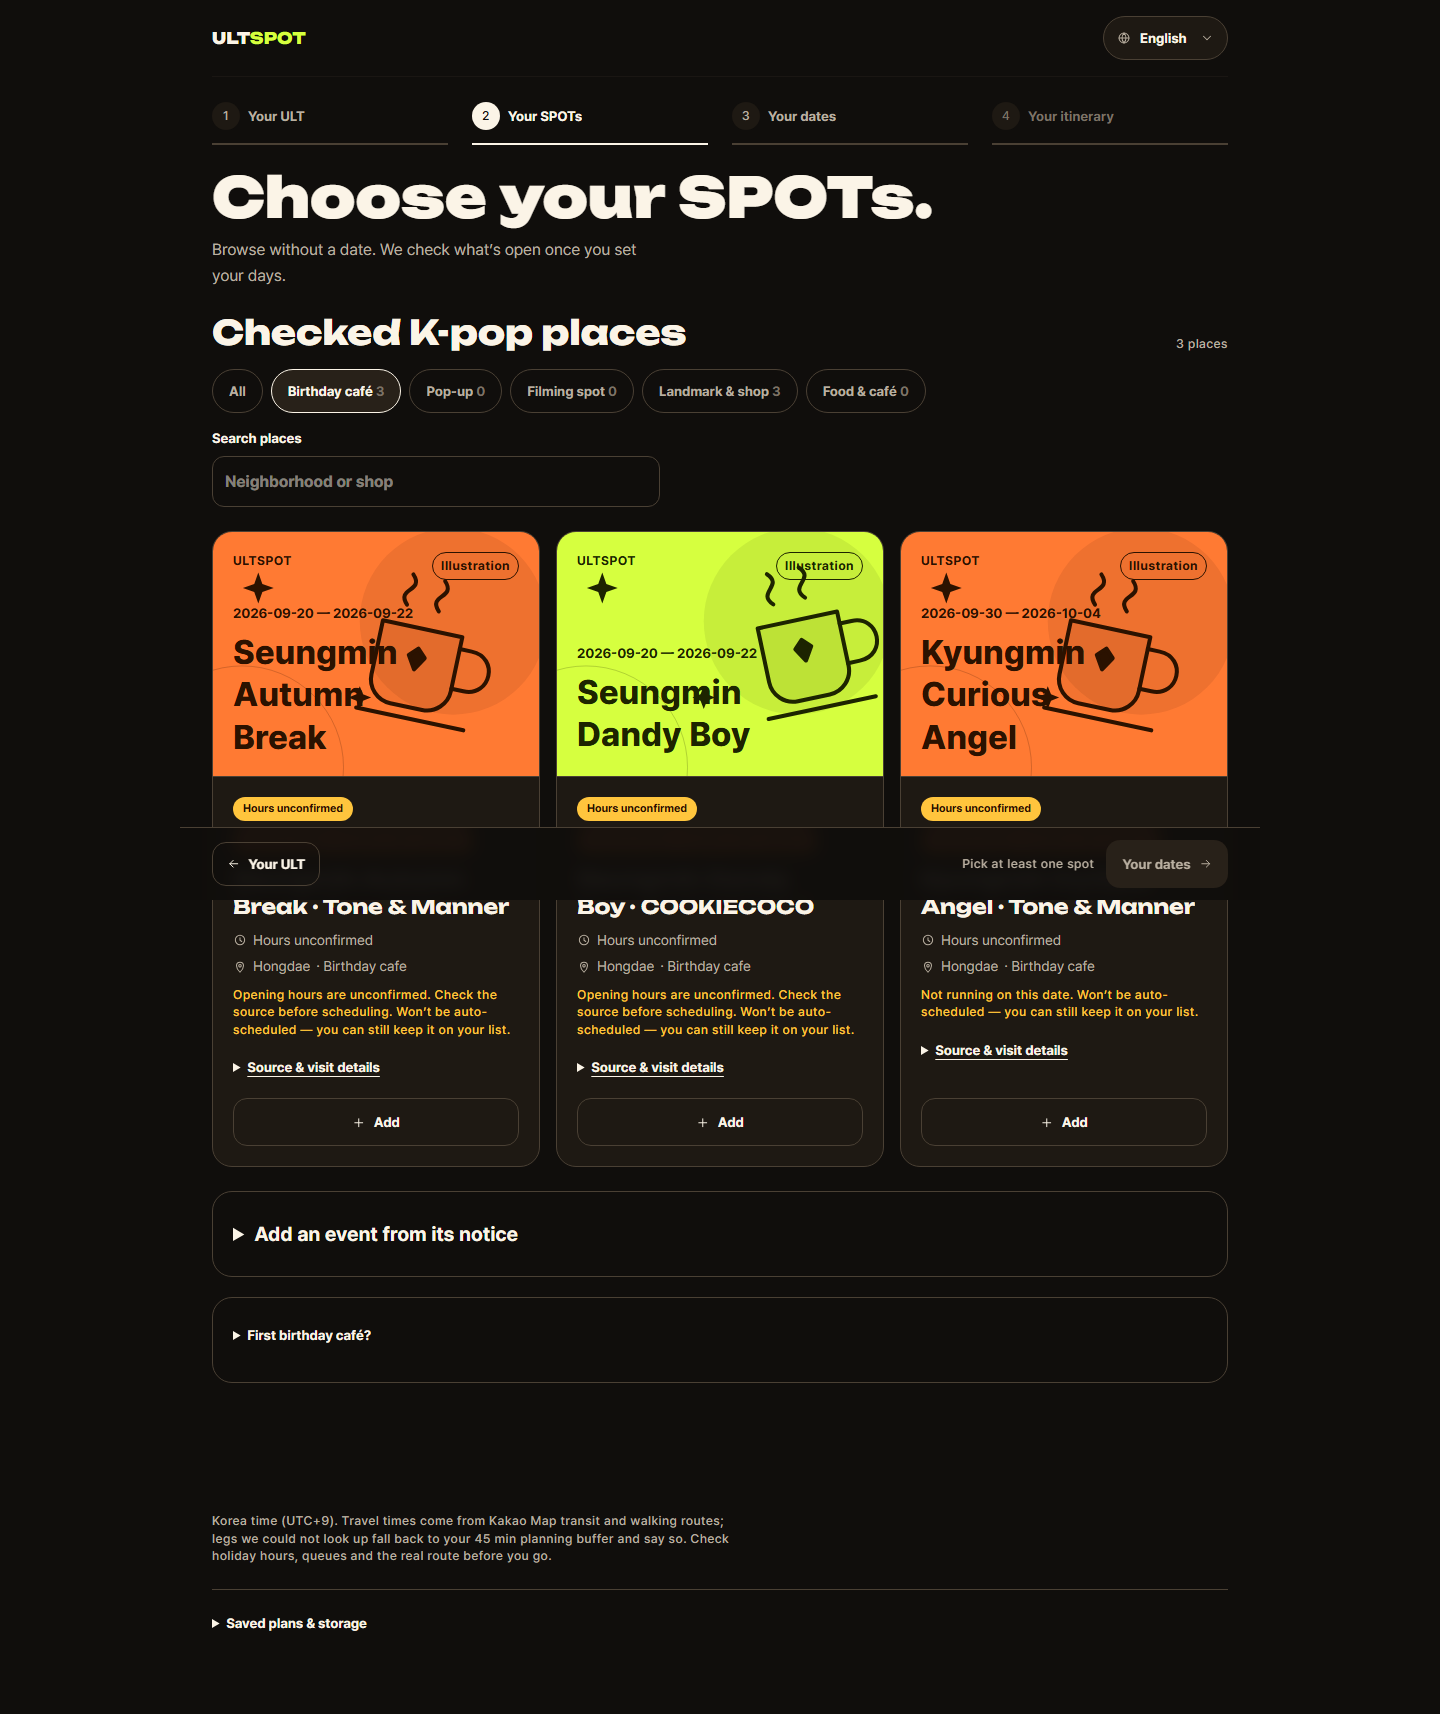
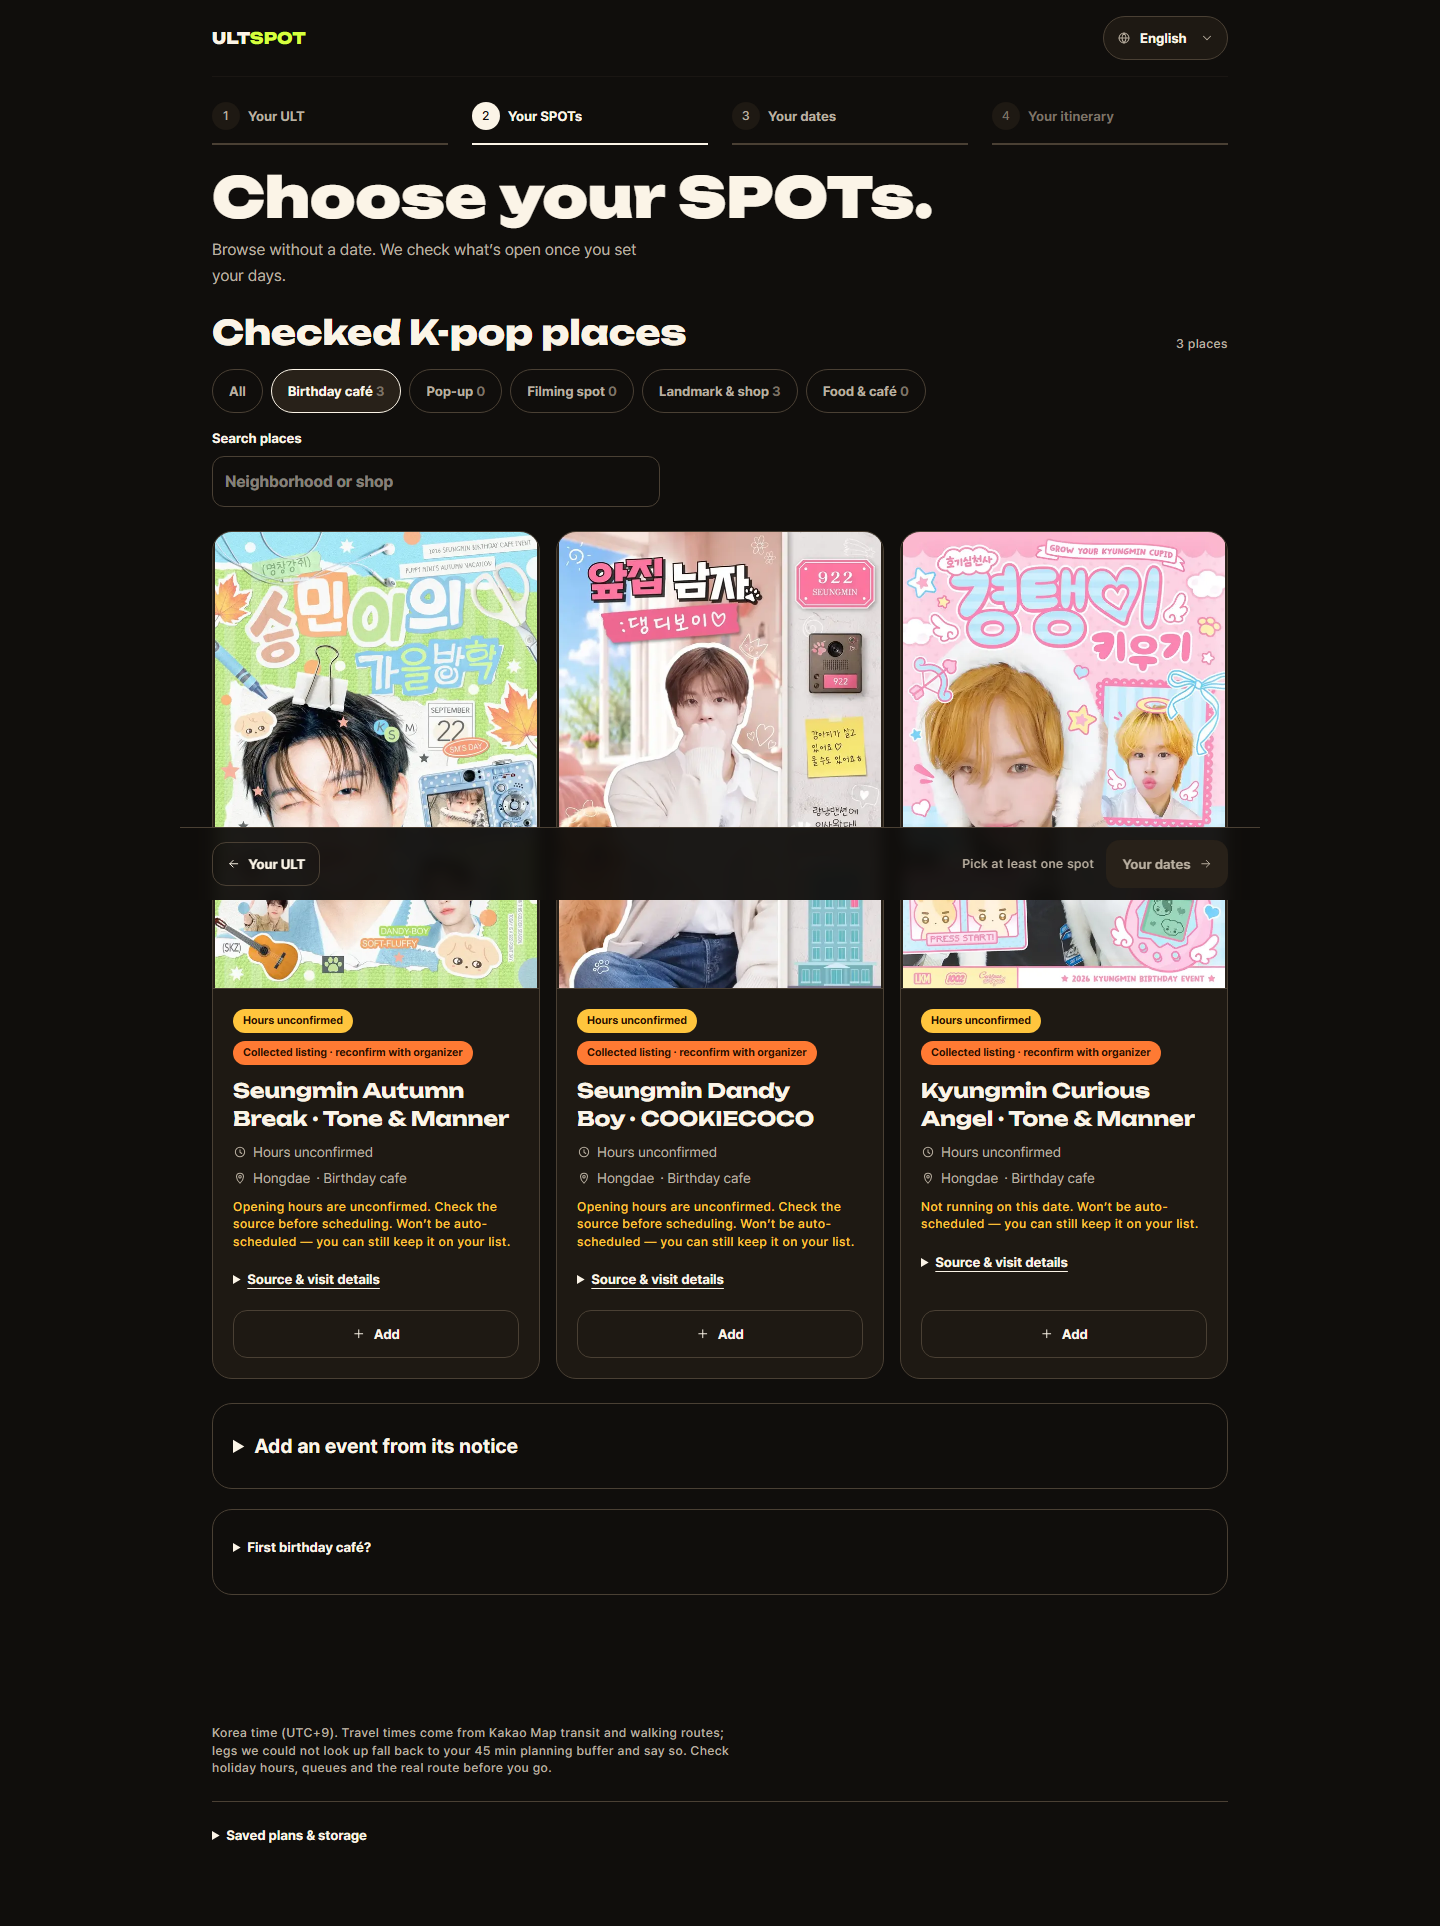
feat(ui): 사용자 제공 행사 포스터와 장소 이미지 연결
왜: 제출 화면의 목업을 제공받은 포스터 3장과 장소 이미지 3개로 교체한다. 포스터와 로고의 원본 비율을 유지한다.

하지 않은 것: 지도 브랜치 병합과 배포. 카카오 JS 키는 Claude 폴더에 등록 여부만 확인했다.

검증: 프로덕션 빌드와 타입 검사 및 변경 파일 lint 통과. 서버 시작 전 접속 실패 후 재실행한 데이터 및 UI 테스트 6건 통과, 캡처 3장.

diff --git a/src/components/spot-card.tsx b/src/components/spot-card.tsx
@@ -1,6 +1,16 @@
 "use client";
 import { reportedEvents } from '@/i18n/reported-events';
 import { FanEventArt } from '@/components/fan-event-art';
+import Image from 'next/image';
+
+const cardImages: Record<string, string> = {
+  'hikr-ground': '/images/hikr-ground.jpg',
+  'BC-SEUNGMIN-AUTUMN-BREAK': '/images/seungmin-autumn.png',
+  'BC-SEUNGMIN-DANDY-BOY': '/images/seungmin-dandy.png',
+  'BC-KYUNGMIN-CURIOUS-ANGEL': '/images/kyungmin-cafe.png',
+  'music-korea': '/images/music-korea.png',
+  'k-star-road': '/images/k-star-road.png',
+};
 
 import { Badge, Button, type BadgeTone } from "@/components/ui";
 import { CameraIcon, CheckIcon, ClockIcon, ExternalIcon, PinIcon, PlusIcon, TrainIcon } from "@/components/icons";
@@ -61,7 +71,9 @@ export function SpotCard({ event, date, selected, disabled, onToggle, required =
   return (
     <article className={cn("flex min-w-0 flex-col overflow-hidden rounded-xl border bg-surface transition-colors",
       selected ? "border-text" : "border-line-strong")}>
-      {event.category === 'birthdayCafe' ? <FanEventArt title={copy.title} date={`${event.from ?? ''} — ${event.to ?? ''}`} variant={event.id.includes('DANDY') ? 1 : 0} locale={locale} /> : <div className="flex h-24 flex-col items-center justify-center gap-1 border-b border-line-strong bg-surface-2 text-text-muted">
+      {cardImages[event.id] ? <a href={cardImages[event.id]} target="_blank" rel="noopener noreferrer" className={`relative block overflow-hidden border-b border-line-strong bg-surface-2 ${event.category === 'birthdayCafe' ? 'aspect-[5/7]' : 'aspect-[4/3]'}`}>
+        <Image src={cardImages[event.id]} alt={copy.title} fill sizes="(max-width: 767px) 100vw, (max-width: 1279px) 50vw, 33vw" className={event.category === 'birthdayCafe' || event.id === 'hikr-ground' ? 'object-contain' : 'object-cover'} />
+      </a> : event.category === 'birthdayCafe' ? <FanEventArt title={copy.title} date={`${event.from ?? ''} — ${event.to ?? ''}`} variant={event.id.includes('DANDY') ? 1 : 0} locale={locale} /> : <div className="flex h-24 flex-col items-center justify-center gap-1 border-b border-line-strong bg-surface-2 text-text-muted">
         <CameraIcon className="text-subhead" />
         <span className="text-caption">{t.spots.photoPending}</span>
       </div>}

diff --git a/e2e/fan-cafes.spec.ts b/e2e/fan-cafes.spec.ts
@@ -30,6 +30,11 @@ test('birthday cafe discovery shows collected events and organizer links', async
     const card = page.getByRole('article').filter({ has: page.getByRole('heading', { name: event.title, exact: true }) });
     await expect(card).toBeVisible();
     await expect(card).toContainText('Collected listing');
+    const poster = card.getByRole('img', { name: event.title, exact: true });
+    await poster.scrollIntoViewIfNeeded();
+    await expect.poll(() => poster.evaluate((img: HTMLImageElement) => img.complete && img.naturalWidth > 0)).toBe(true);
   }
+  await page.evaluate(() => document.fonts.ready);
+  await page.evaluate(() => window.scrollTo(0, 0));
   if (process.env.CAPTURE_TASK === 'T-037') await page.screenshot({ path: `docs/tasks/T-037/screenshots/fan-cafes-${info.project.name}.png`, fullPage: true });
 });

diff --git a/docs/tasks/T-037/README.md b/docs/tasks/T-037/README.md
@@ -24,3 +24,8 @@
 - 하이커 로고: 채팅 이미지의 로컬 원본 경로를 확보한 뒤 연결.
 - 운영시간·예약 조건의 원문 확인 및 좌표 연결 후 자동 편성 검토.
 - DB 마이그레이션과 새 환경 변수는 필요 없다. 프로덕션 반영은 PR 머지 후 진행.
+
+## 사용자 제공 이미지 연결
+생일카페 포스터 3장과 장소 사진 2장을 public/images에 보존하고 카드에 연결했다. 포스터는 전체 표시, 사진은 4:3이며 클릭하면 원본을 연다. 뮤직코리아 사진의 도로명 번호 134는 기존 매장 주소와 일치한다. 사용자 제공 파일이며 수집 파이프라인의 이미지 권리 승인 상태를 자동 변경하지 않았다. 카카오 JS 키는 Claude 작업 폴더에 존재함을 값 노출 없이 확인했다. 실제 지도/배포 도메인 인증은 별도 검증 대상이다.
+
+하이커 로고도 추가 접수하여 원본 비율로 연결했다. 최종 이미지 총 6개.
